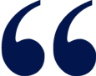
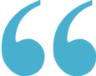
correction citation

diff --git a/src/css/base/main.css b/src/css/base/main.css
@@ -198,7 +198,7 @@ button {
   line-height: 1.5rem;
   font-style:italic;
   font-style: weight 700;
-  color: var(--bleu--fonce2);
+  color: var(--bleu--icon);
 }
 
 audio {
